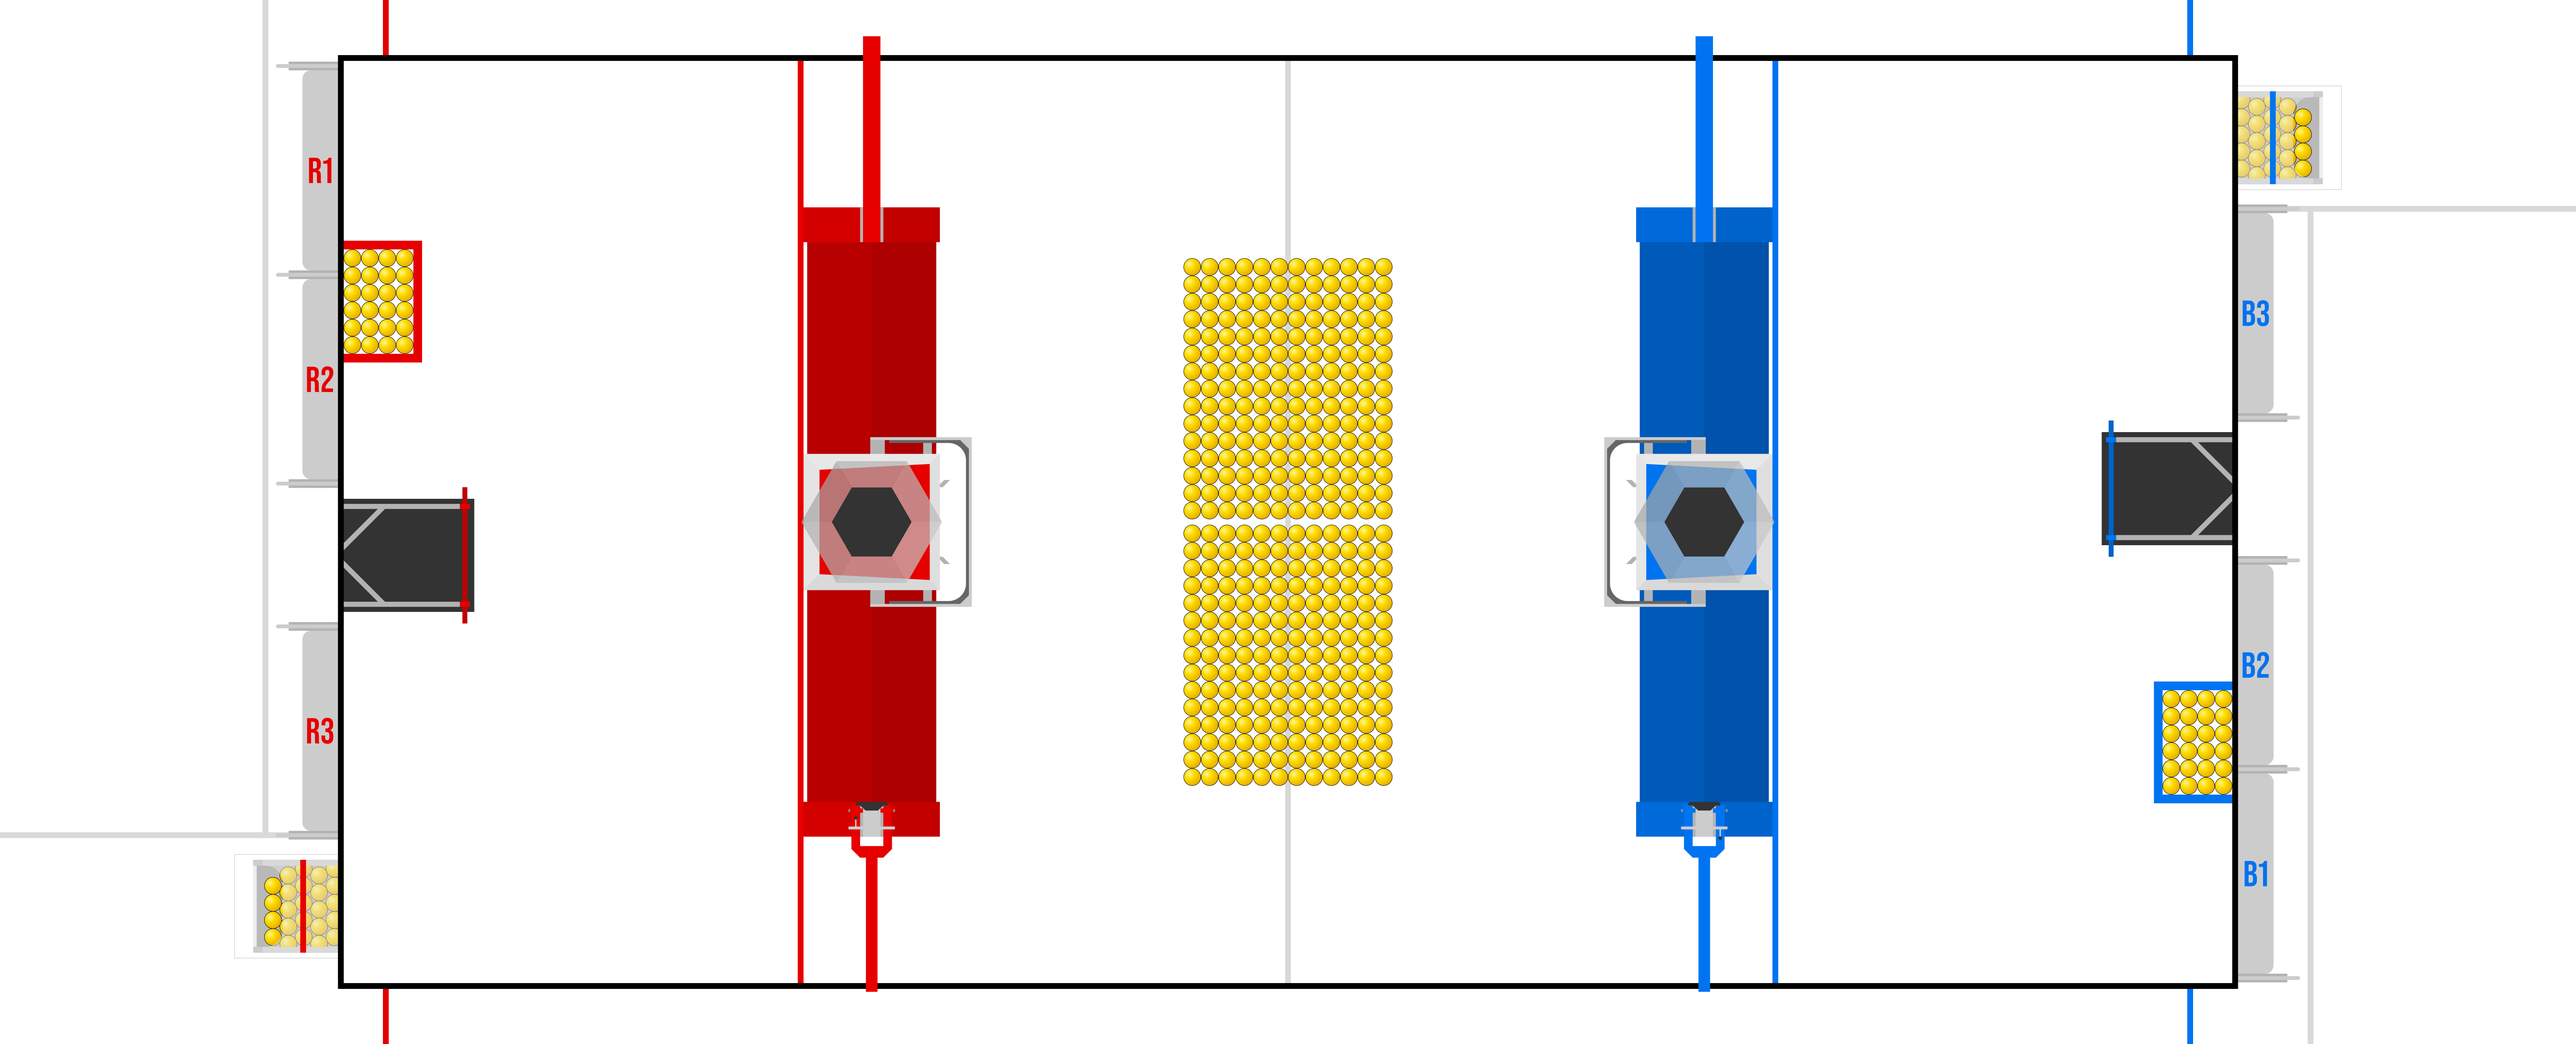
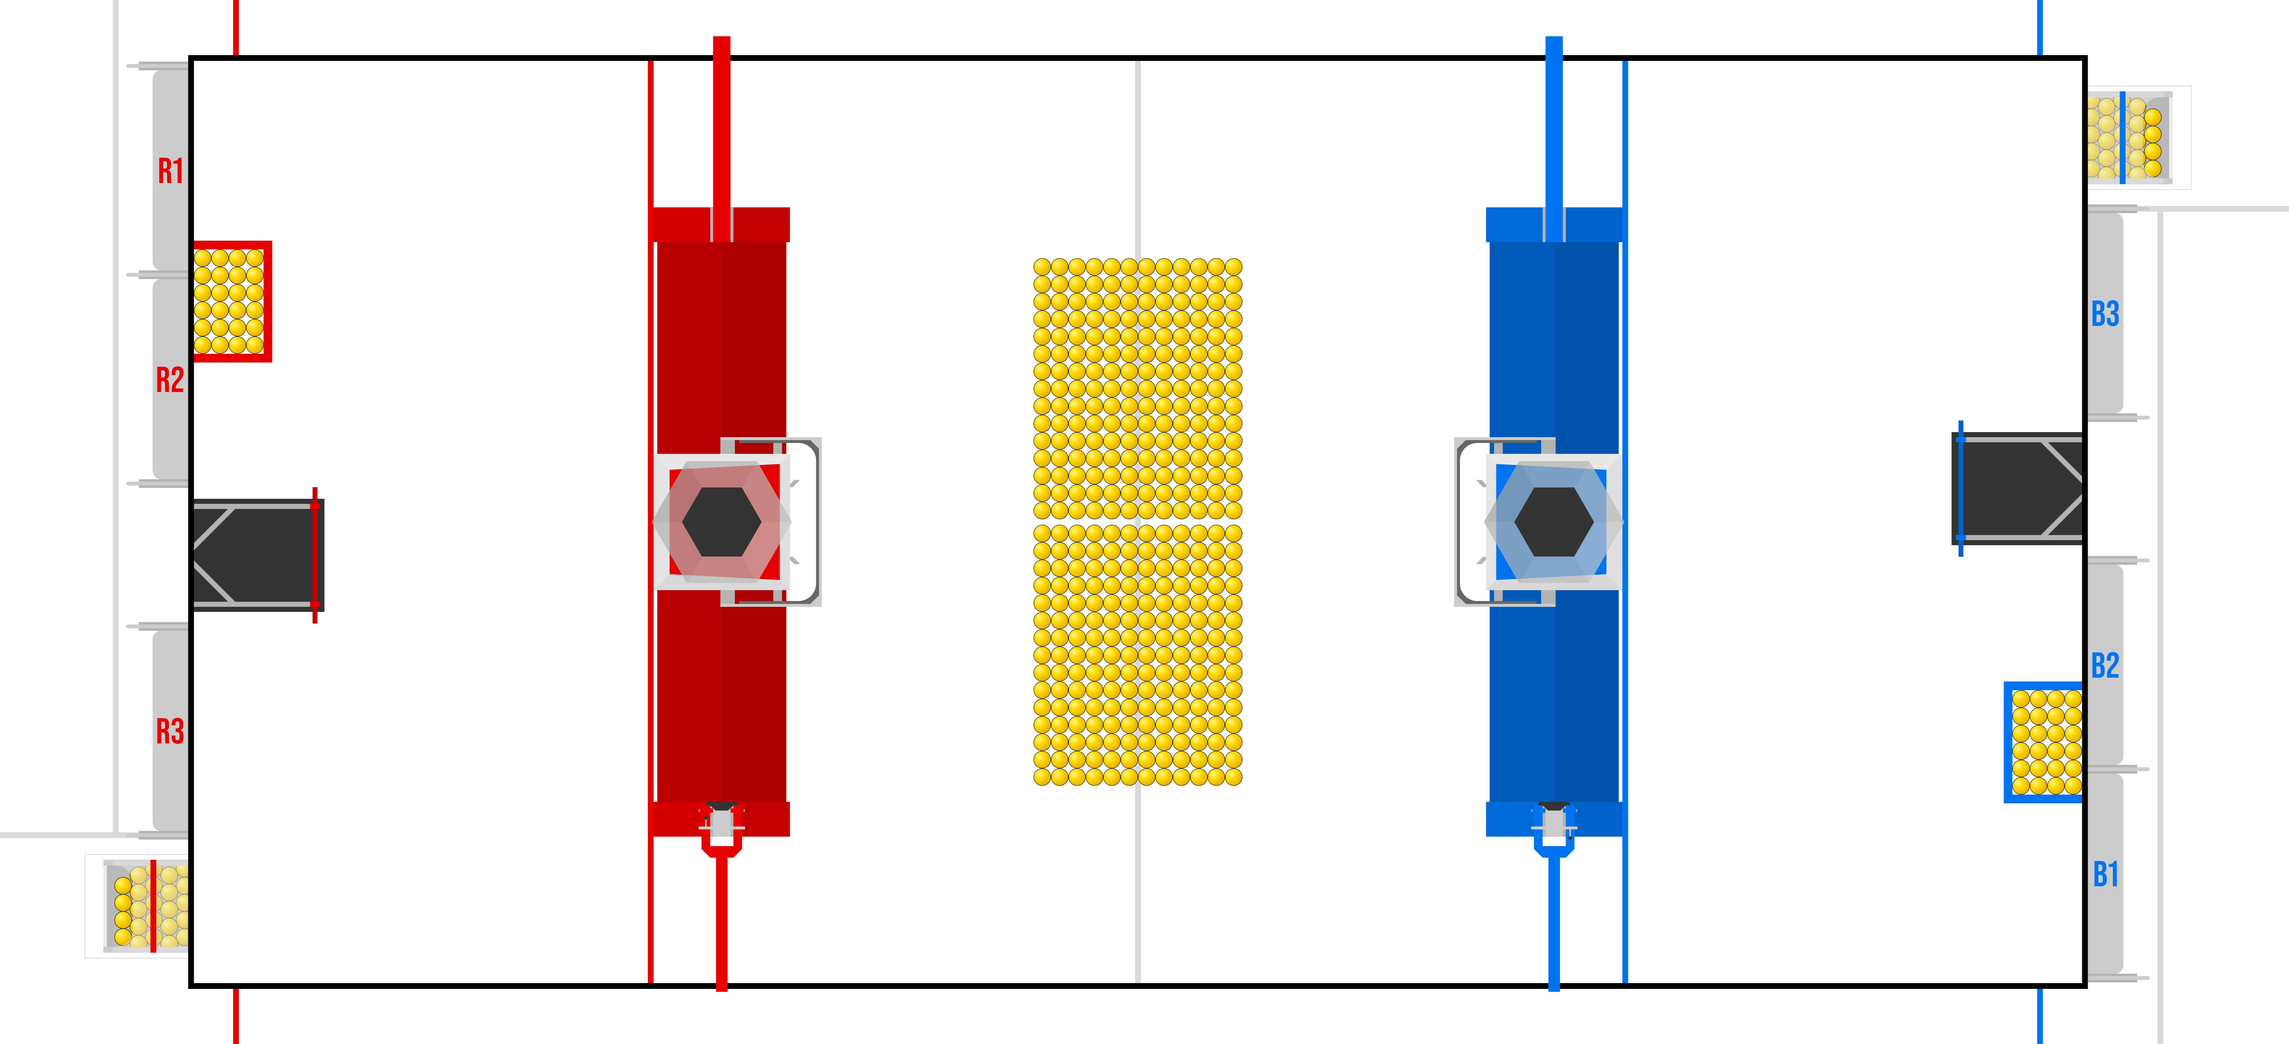
8/5 old

diff --git a/main/match overview/index.html b/main/match overview/index.html
@@ -11,9 +11,11 @@
     </head>
     <body>
         <h1 id="qmTitle">Loading...</h1>
-
-        <div id="bgContainer" style="text-align: center;">
-            <img src="/main/images/REBUILT MAP.jpg" alt="REBUILT 2026 Map" style="width:1400px;height:600">
-        </div>
+        <div style="text-align: center;">
+            <div id="bgContainer" style="text-align: center;">
+                <img src="/main/images/REBUILT MAP.jpg" alt="REBUILT 2026 Map" style="width:1000px;height:300">
+            </div>
+        </div> 
+        
     </body>
 </html>

diff --git a/main/match overview/styles.css b/main/match overview/styles.css
@@ -15,7 +15,8 @@ body{
   border-radius: 25px;
   border: 2px solid darkgray;
   background-color: white;
+  text-align: center;
   padding: 20px;
-  width: auto;
+  width: 1300px;
   height: auto;
 }
